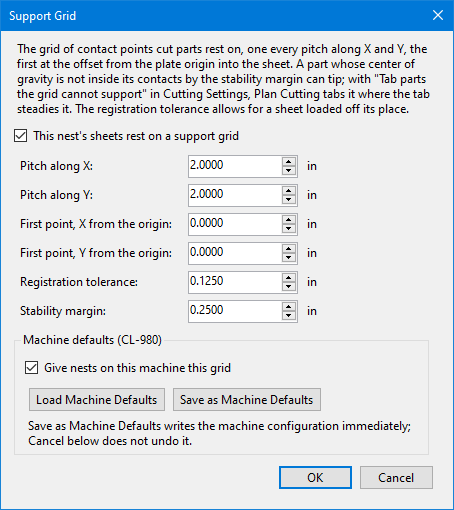
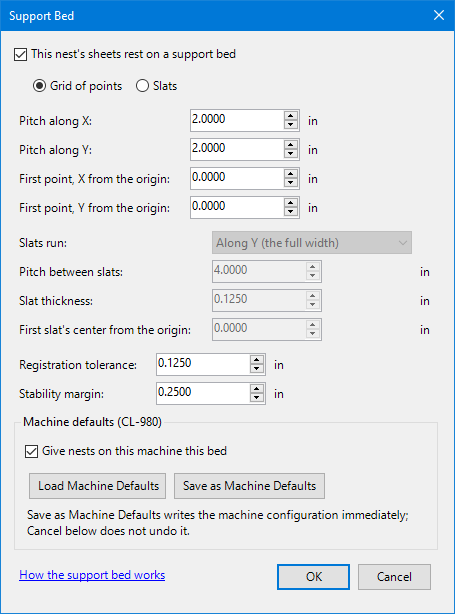
Describe the Support Bed dialog, slats included
The dialog was renamed from Support Grid and gained slats for plasma tables,
and it now links straight to this section instead of explaining itself
inline, so the page has to match what users see. Recaptured with the help
link in place. The support-grid anchor and topic ID stay as they are.

Also corrects the Cutting Settings tab option labels, which had drifted.

diff --git a/docs/machines.md b/docs/machines.md
@@ -2,7 +2,7 @@
 
 Every nest is cut on one machine. The machine you pick for a nest decides:
 
-- the **support grid** its sheets rest on, used to judge whether cut parts can tip
+- the **support bed** its sheets rest on, used to judge whether cut parts can tip
 - the starting **lead-ins, lead-outs and kerf** for the nest's material and thickness
 - the **cut-off** clearance, overtravel and direction
 
@@ -24,8 +24,8 @@ Click or right-click it for the same list.
 
 The nest file remembers its machine. When you change it:
 
-- Every sheet moves to the new machine's support grid, or has none if that machine
-  gives nests no grid.
+- Every sheet moves to the new machine's support bed, or has none if that machine
+  gives nests no bed.
 - The new machine's cut-off settings apply the next time cut-offs are made or moved.
 - Plates you've already planned keep their lead-ins. To use the new machine's, remove the
   lead-ins (**Nest > Remove Lead-ins (All Plates)**) and plan the cutting again.
@@ -44,27 +44,38 @@ The nest file remembers its machine. When you change it:
 
 If you never pick one, new nests use the first machine in alphabetical order.
 
-## Support grid {#support-grid}
+## Support bed {#support-grid}
 
-The support grid is the pattern of slats or points the sheet rests on. OpenNest uses it
-to warn when a cut part can tip, and Plan Cutting can tab those parts in place. Open it
-with **Nest > Support Grid**.
+The support bed is what the sheet rests on while it's cut: a grid of points, as on a laser
+table, or straight slats, as on a plasma table. OpenNest uses it to warn when a cut part
+can tip, and Plan Cutting can tab those parts in place. Open it with
+**Nest > Support Bed**. The machine's own bed is also set on the **Support Bed** tab in
+**Tools > Machine Configuration**.
 
-![Support Grid dialog](images/support-grid.png)
+![Support Bed dialog](images/support-grid.png)
 
-1. **This nest's sheets rest on a support grid.** Turn the grid on or off for this
-   nest only.
-2. The grid's spacing, where its first point is from the plate origin, and the
-   tolerances for checking whether a part can tip.
-3. **Give nests on this machine this grid.** When ticked, every new nest on this machine,
-   and every nest you switch to it, gets this grid. The box's title names the machine.
-4. **Save as Machine Defaults** saves the values above as this machine's grid straight
+1. **This nest's sheets rest on a support bed.** Turn the bed on or off for this nest
+   only.
+2. Pick **Grid of points** or **Slats**. Only that kind's settings can be changed.
+3. For a grid: the distance between points along X and Y (**Pitch**), and how far the
+   first point is from the plate origin.
+4. For slats: whether they run along X (the full length) or Y (the full width), the
+   distance between slats, how wide each slat is (**Slat thickness**), and how far the
+   first slat's center is from the origin.
+5. **Registration tolerance** allows for a sheet loaded a little off its place.
+   **Stability margin** is how far inside its supports a part's center of gravity must
+   be for it to stay level. A part balanced on one slat can't meet it.
+6. **Give nests on this machine this bed.** When ticked, every new nest on this machine,
+   and every nest you switch to it, gets this bed. The box's title names the machine.
+7. **Save as Machine Defaults** saves the values above as this machine's bed straight
    away; **Cancel** doesn't undo it. **Load Machine Defaults** puts the machine's saved
-   grid back into the boxes.
-5. Click **OK** to apply the grid to this nest.
+   bed back into the boxes.
+8. Click **OK** to apply the bed to this nest.
 
 The machine-defaults buttons are greyed out when the nest has no machine. Pick one
-with **Nest > Machine** first.
+with **Nest > Machine** first. **How the support bed works**, or ++f1++, opens this page.
+
+**View > Draw Support** shows the points or slats on the plate.
 
 ## Lead-ins from the machine {#machine-lead-ins}
 

diff --git a/docs/cutting-planner.md b/docs/cutting-planner.md
@@ -62,9 +62,9 @@ or from the settings you applied last.
    the type needs).
 3. **Lead-Out.** **None**, **Line** or **Arc**.
 4. **Tabs** leave small uncut gaps that hold parts in the sheet. Tick **Enable
-   Tabs**, set the **Tab Size**, then choose **Tab all parts** or **Tab parts the
-   support grid cannot hold level**. The second uses the nest's
-   [support grid](machines.md#support-grid).
+   Tabs**, set the **Tab Size**, then choose **Tab every part** or **Only tab parts the
+   support grid can't hold level**. The second uses the nest's
+   [support bed](machines.md#support-grid).
 5. **Pierce.** **Pierce Clearance** is how far each pierce stays from its own contour.
    **Pierce Diameter** is the size of the hole a pierce blows through this plate; when
    it's above 0, every pierce keeps half of it clear of all parts. **Round Lead-In

diff --git a/docs/validate.md b/docs/validate.md
@@ -81,7 +81,7 @@ before it asks where to save the program.
 The extra checks, listed only when they find something:
 
 - **Fixed leads:** a locked lead-in or lead-out that runs into a part or a clamp.
-- **Part support:** a part the [support grid](machines.md#support-grid) can't hold
+- **Part support:** a part the [support bed](machines.md#support-grid) can't hold
   level, with no tab to keep it in place.
 - **Part spacing:** two parts closer than the plate's part spacing. The finding gives
   the measured gap.

diff --git a/docs/first-nest.md b/docs/first-nest.md
@@ -33,7 +33,7 @@ open; saving doesn't clear them.
 
 Almost anything you do to the nest can be undone: moving, rotating, adding or deleting
 parts, fills and Auto Nest, **Clear Nest**, plates and their settings, clamps and the
-support grid, cut-offs, the cut order and lead-ins, applying a cutting plan, and adding,
+support bed, cut-offs, the cut order and lead-ins, applying a cutting plan, and adding,
 editing or deleting drawings.
 
 Some things can't be undone:

diff --git a/docs/index.md b/docs/index.md
@@ -11,7 +11,7 @@ machine.
 drawings, set quantities, run Auto Nest, plan the cutting and post the program. It takes
 about 10 minutes.
 
-**[Machines](machines.md):** pick the machine a nest is cut on. It sets the support grid,
+**[Machines](machines.md):** pick the machine a nest is cut on. It sets the support bed,
 the starting lead-ins and the cut-off settings.
 
 **[Shared nest server](nest-server.md):** keep nests on a server every shop PC shares,
